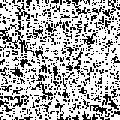
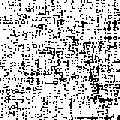
Getting better

diff --git a/main.py b/main.py
@@ -34,29 +34,32 @@ class Cell:
 
 	def get_entropy(self) -> float:
 		if self.collapsed:
-			return 1
-		try:
-			occurrences = np.array([p.occurrences for p in self.patterns])
-			weights = np.sum(occurrences)
-			if weights == 0:
-				return 100
-			entropy = np.log(weights) - (np.sum(occurrences * np.log(occurrences)) / weights)
-		except Exception as e:
-			print("hello", e)
-			entropy = 100
+			return 100
+		occurrences = np.array([p.occurrences for p in self.patterns])
+		weights = np.sum(occurrences)
+		if weights == 0:
+			return 100
+		entropy = np.log(weights) - (np.sum(occurrences * np.log(occurrences)) / weights)
 		return entropy
 
 	def collapse(self) -> None:
 		self.collapsed = True
-		pattern_weights = np.array([x.occurrences for x in self.patterns])
-		pattern_weights = pattern_weights / np.sum(pattern_weights)
-		self.final_pattern = np.random.choice(self.patterns, p=pattern_weights)
-		# self.final_pattern = np.random.choice(self.patterns)
+		try:
+			pattern_weights = np.array([x.occurrences for x in self.patterns])
+			pattern_weights = pattern_weights / np.sum(pattern_weights)
+			self.final_pattern = np.random.choice(self.patterns, p=pattern_weights)
+		except Exception as e:
+			print(e, "hello")
+			self.final_pattern = Pattern(np.array([
+				[0, 0, 0],
+				[0, 0, 0],
+				[0, 0, 0]
+			]), 3)
 		self.patterns = [self.final_pattern]
 
 	def match_wall(self, wall, pos):
 		self.patterns = [temp_pattern for temp_pattern in self.patterns if
-		                 jaccard_similarity(temp_pattern.walls[pos], wall) > 0.66]
+		                 jaccard_similarity(temp_pattern.walls[pos], wall) > 0.33]
 
 	def __str__(self):
 		return f"patterns: {self.patterns}\ny,x: {(self.y, self.x)}\ncollapsed: {self.collapsed}"
@@ -64,8 +67,8 @@ class Cell:
 
 def jaccard_similarity(wall_a, wall_b):
 	# convert to set
-	wall_a = set(wall_a)
-	wall_b = set(wall_b)
+	wall_a = set([(index, element) for index, element in enumerate(wall_a)])
+	wall_b = set([(index, element) for index, element in enumerate(wall_b)])
 	# calculate jaccard similarity
 	jaccard = float(len(wall_a.intersection(wall_b))) / len(wall_a.union(wall_b))
 	return jaccard
@@ -122,13 +125,13 @@ def draw_board(pixel_board: pygame.PixelArray, output: list[list[Cell]], size: i
 			if output[int(i_inner / size)][int(j_inner / size)].collapsed is True:
 				choice = output[int(i_inner / size)][int(j_inner / size)].final_pattern
 			else:
-				try:
-					choice = output[int(i_inner / size)][int(j_inner / size)].patterns[0]
-				# choice = np.random.choice(output[int(i_inner / size)][int(j_inner / size)].patterns)
-				except Exception as e:
-					print(e, (output[int(i_inner / size)][int(j_inner / size)].y,
-					          output[int(i_inner / size)][int(j_inner / size)].x), "hello")
-					print("______________________")
+				print("basa")
+				choice = Pattern(np.array([
+				[0, 0, 0],
+				[0, 0, 0],
+				[0, 0, 0]
+			]), 3)#output[int(i_inner / size)][int(j_inner / size)].patterns[0]
+			# choice = np.random.choice(output[int(i_inner / size)][int(j_inner / size)].patterns)
 			for k_inner in range(size):
 				for m_inner in range(size):
 					pixel_board[i_inner + k_inner][j_inner + m_inner] = int(choice.data[k_inner][m_inner])
@@ -167,11 +170,14 @@ for i in range(0, int(output_size[0] / cell_size)):
 		output_cells[-1].append(Cell(patterns_cells[:], i, j))
 
 counter = 0
-while not output_cells[0][0].collapsed and counter < 5000:
+while find_lowest_entropy(output_cells).get_entropy() <= 100 and counter < 1600:
+	if counter % 50 == 0:
+		print(counter)
 	counter += 1
 	lowest_one = find_lowest_entropy(output_cells)
 	lowest_one.collapse()
 	propagate(output_cells, (lowest_one.y, lowest_one.x))
+print(counter)
 pygame.init()
 a = draw_board(pygame.PixelArray(screen), output_cells, cell_size)
 surf = a.make_surface()
